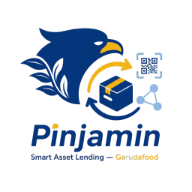
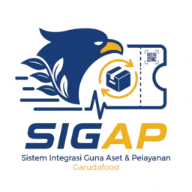
feat(pinjamin): rebrand aplikasi menjadi SIGAP
Identitas produk berganti dari "Pinjamin — Smart Asset Lending" menjadi
"SIGAP — Sistem Integrasi Guna Aset & Pelayanan".

Sekaligus memperbaiki kerusakan yang muncul saat logo diganti: berkas lama
logo-pinjamin.png dihapus dan diganti pinjamin-logo.png (urutan kata
tertukar), sementara 4 rujukan di kode masih menunjuk nama lama — logo di
landing, login, dan sidebar akan 404. Berkasnya kini bernama sigap-logo.png
dan seluruh rujukan disesuaikan.

Yang diganti (semua yang dibaca manusia):
- Judul metadata, deskripsi, dan site.webmanifest
- Merek di sidebar, breadcrumb, header landing, footer landing & login
- Kop dokumen PDF ekspor dan footer "SIGAP v1.1"
- Badge hero: tagline lama "Smart Asset Lending & Helpdesk" ikut diganti
- Nilai string ID/EN di lib/messages.ts, komentar kode, dan teks tiket contoh
- README app & Supabase

Label pengalih mode diubah dari "Pinjamin | Ticketing" menjadi
"Aset | Ticketing" — memakai nama aplikasi sebagai nama salah satu modenya
justru membingungkan setelah rebrand.

Yang SENGAJA dibiarkan (semua yang dibaca mesin):
- Folder apps/pinjamin — Root Directory di dashboard Vercel menunjuk path ini
- Paket @pinjamin/web — dirujuk installCommand vercel.json, script pinjamin:*
  di root, dan filter turbo
- Cookie pinjamin_session, localStorage pinjamin_data_v3_gf, sessionStorage
  pinjamin_admin_username, event pinjamin:*, env PINJAMIN_DATA_DIR
- Prefix QR "PIN-" — aset yang QR-nya sudah tercetak akan jadi tidak
[…]

diff --git a/apps/pinjamin/app/page.tsx b/apps/pinjamin/app/page.tsx
@@ -164,7 +164,7 @@ export default function LandingPage() {
     return () => clearTimeout(t);
   }, [trackNumber, runTrack]);
 
-  const pinjaminFeatures = [
+  const sigapFeatures = [
     { icon: Package, label: "Manajemen Aset" },
     { icon: QrCode, label: "QR Scanner" },
     { icon: CalendarRange, label: "Peminjaman" },
@@ -211,8 +211,8 @@ export default function LandingPage() {
                 aria-hidden="true"
               />
               <Image
-                src="/logo-pinjamin.png"
-                alt="Pinjamin"
+                src="/sigap-logo.png"
+                alt="SIGAP"
                 width={40}
                 height={40}
                 priority
@@ -221,7 +221,7 @@ export default function LandingPage() {
             </div>
             <div>
               <div className="font-extrabold leading-none tracking-tight">
-                Pinjamin
+                SIGAP
               </div>
               <div className="text-[10px] text-[#fbd38d] font-medium tracking-widest uppercase whitespace-nowrap">
                 Garuda Food
@@ -252,7 +252,7 @@ export default function LandingPage() {
         <section className="pt-12 sm:pt-16 pb-10 text-center max-w-3xl mx-auto">
           <div className="inline-flex items-center gap-2 rounded-full border border-amber-400/30 bg-amber-400/10 px-3 py-1 text-xs font-semibold text-amber-200">
             <Sparkles className="h-3.5 w-3.5" />
-            Smart Asset Lending &amp; Helpdesk
+            Sistem Integrasi Guna Aset &amp; Pelayanan
           </div>
           <h1 className="mt-5 text-3xl sm:text-4xl lg:text-5xl font-extrabold tracking-tight leading-[1.1]">
             Butuh bantuan soal aset?
@@ -317,17 +317,17 @@ export default function LandingPage() {
             Di mobile form didahulukan (order-first) karena aksi utamanya. */}
         <section className="pb-14 flex flex-col lg:grid lg:grid-cols-2 gap-6 items-start">
           <div className="space-y-6 w-full order-last lg:order-none lg:sticky lg:top-6">
-            {/* Satu platform: Pinjamin + Ticketing */}
+            {/* Satu platform: manajemen aset + Ticketing */}
             <div className="rounded-2xl border border-[#243a5e] bg-[#12263f]/50 p-5 space-y-3">
               <div className="text-xs font-semibold tracking-widest uppercase text-slate-400">
-                Satu platform — Pinjamin
+                Satu platform — SIGAP
               </div>
               <p className="text-xs text-slate-400 leading-relaxed">
                 Tiket Anda masuk ke sistem yang sama dengan katalog aset dan
                 peminjaman, jadi tim bisa langsung menautkannya ke aset terkait.
               </p>
               <div className="flex flex-wrap gap-2">
-                {pinjaminFeatures.map((f) => (
+                {sigapFeatures.map((f) => (
                   <span
                     key={f.label}
                     className="inline-flex items-center gap-2 rounded-xl border border-[#243a5e] bg-[#0f1d33] px-3 py-2 text-xs font-medium text-slate-200"
@@ -601,7 +601,7 @@ export default function LandingPage() {
           >
             ©
           </Link>{" "}
-          2026 Pinjamin — Smart Asset Lending &amp; Helpdesk • Garuda Food
+          2026 SIGAP — Sistem Integrasi Guna Aset &amp; Pelayanan • Garudafood
         </div>
       </footer>
     </div>

diff --git a/apps/pinjamin/components/layout/sidebar.tsx b/apps/pinjamin/components/layout/sidebar.tsx
@@ -37,7 +37,7 @@ interface AdminProfileInfo {
 }
 
 /**
- * Mode admin: "assets" (Pinjamin) atau "tickets" (Helpdesk).
+ * Mode admin: "assets" (manajemen aset) atau "tickets" (Helpdesk).
  * Disimpan di localStorage + disiarkan lewat event `pinjamin:mode` supaya
  * TopBar & Sidebar selalu sinkron. Rute /tickets otomatis memaksa mode
  * tickets agar tampilan konsisten walau masuk lewat URL langsung.
@@ -181,8 +181,8 @@ export function Sidebar({ onNavigate }: { onNavigate?: () => void }) {
             className="absolute -inset-2.5 rounded-full bg-amber-300/25 blur-[12px]"
           />
           <Image
-            src="/logo-pinjamin.png"
-            alt="Pinjamin"
+            src="/sigap-logo.png"
+            alt="SIGAP"
             width={44}
             height={44}
             priority
@@ -191,7 +191,7 @@ export function Sidebar({ onNavigate }: { onNavigate?: () => void }) {
         </div>
         <div>
           <div className="font-extrabold text-white leading-none tracking-tight">
-            Pinjamin
+            SIGAP
           </div>
           <div className="text-[11px] text-[#fbd38d] font-medium tracking-widest uppercase">
             Garuda Food
@@ -431,15 +431,15 @@ export function TopBar({ onMenu }: { onMenu: () => void }) {
             className="absolute h-10 w-10 rounded-full bg-amber-300/25 blur-[10px]"
           />
           <Image
-            src="/logo-pinjamin.png"
-            alt="Pinjamin"
+            src="/sigap-logo.png"
+            alt="SIGAP"
             width={28}
             height={28}
             className="relative h-7 w-auto object-contain"
           />
         </span>
         <span className="font-extrabold tracking-tight text-white truncate">
-          Pinjamin
+          SIGAP
         </span>
         {/* Badge disembunyikan di layar <640px: bersama switcher mode dan
             avatar, header jadi pecah dua baris di ponsel 375px. */}
@@ -448,7 +448,7 @@ export function TopBar({ onMenu }: { onMenu: () => void }) {
         </span>
       </Link>
       <div className="hidden lg:flex items-center gap-2 text-sm">
-        <span className="text-[#CBA12C] font-bold tracking-wide">Pinjamin</span>
+        <span className="text-[#CBA12C] font-bold tracking-wide">SIGAP</span>
         <span className="text-white/20">/</span>
         <span className="text-white/60 font-medium">Garuda Food</span>
         <span className="ml-3 hidden xl:inline-flex items-center gap-2 text-xs text-white/40">
@@ -457,7 +457,7 @@ export function TopBar({ onMenu }: { onMenu: () => void }) {
         </span>
       </div>
       <div className="ml-auto flex shrink-0 items-center gap-1.5 sm:gap-2">
-        {/* Switcher Mode Admin: Pinjamin (aset) vs Ticketing (helpdesk) */}
+        {/* Switcher Mode Admin: Aset vs Ticketing (helpdesk) */}
         <div className="flex items-center rounded-xl border border-[#243a5e] bg-[#142a4a] p-0.5">
           <button
             type="button"
@@ -471,7 +471,7 @@ export function TopBar({ onMenu }: { onMenu: () => void }) {
             )}
           >
             <Package className="h-4 w-4" strokeWidth={1.75} />
-            <span className="hidden md:inline">Pinjamin</span>
+            <span className="hidden md:inline">Aset</span>
           </button>
           <button
             type="button"

diff --git a/apps/pinjamin/lib/messages.ts b/apps/pinjamin/lib/messages.ts
@@ -44,7 +44,7 @@ export const messages = {
     "Scan an asset QR for quick check-out/return without opening the menu.",
   ],
   systemActive: ["Sistem aktif", "System online"],
-  modeAdminAssets: ["Mode Admin Pinjamin", "Pinjamin Admin Mode"],
+  modeAdminAssets: ["Mode Admin Aset", "Asset Admin Mode"],
   modeAdminTickets: ["Mode Admin Ticketing", "Ticketing Admin Mode"],
 
   // ---------- Umum ----------
@@ -142,7 +142,7 @@ export const messages = {
 
   // ---------- Login ----------
   welcome: ["Selamat Datang", "Welcome"],
-  loginToPinjamin: ["Masuk ke Pinjamin", "Sign in to Pinjamin"],
+  loginToPinjamin: ["Masuk ke SIGAP", "Sign in to SIGAP"],
   username: ["Username", "Username"],
   password: ["Password", "Password"],
   login: ["Masuk", "Sign In"],
@@ -332,10 +332,7 @@ export const messages = {
   unlinkAsset: ["Lepas tautan aset", "Unlink asset"],
   unlink: ["Lepas", "Unlink"],
   linkAsset: ["Tautkan", "Link"],
-  noAssetsInPinjamin: [
-    "Belum ada aset di Pinjamin",
-    "No assets in Pinjamin yet",
-  ],
+  noAssetsInPinjamin: ["Belum ada aset di SIGAP", "No assets in SIGAP yet"],
   pickReportedAsset: [
     "— Pilih aset yang dilaporkan —",
     "— Choose the reported asset —",
@@ -895,8 +892,8 @@ export const messages = {
 
   // ---------- Laporan ----------
   reportsSub: [
-    "Laporan & ekspor — tema Pinjamin Garuda Food",
-    "Reports & exports — Pinjamin Garuda Food theme",
+    "Laporan & ekspor — SIGAP Garudafood",
+    "Reports & exports — SIGAP Garudafood",
   ],
   reportHistoryTitle: ["Riwayat Peminjaman", "Booking History"],
   reportHistorySub: [
@@ -932,8 +929,8 @@ export const messages = {
   pdfTotalAssets: ["Total Aset: {count}", "Total assets: {count}"],
   pdfCategoryLine: ["{name}: {count} aset", "{name}: {count} assets"],
   pdfPrintedAt: [
-    "Dicetak: {date} • Pinjamin v1.1",
-    "Printed: {date} • Pinjamin v1.1",
+    "Dicetak: {date} • SIGAP v1.1",
+    "Printed: {date} • SIGAP v1.1",
   ],
   colBooking: ["Booking", "Booking"],
   colFrom: ["Pinjam", "From"],

diff --git a/apps/pinjamin/lib/ticket-seed.ts b/apps/pinjamin/lib/ticket-seed.ts
@@ -10,7 +10,7 @@ function iso(days: number, hour = 10) {
 /**
  * Tiket helpdesk contoh — karyawan & isu khas operasional Garudafood.
  * Beberapa taut ke aset demo (gf-ast-*) supaya panel Ticketing langsung
- * nyambung ke modul Pinjamin.
+ * nyambung ke modul aset SIGAP.
  */
 export function buildDemoTickets(): Ticket[] {
   return [
@@ -55,7 +55,7 @@ export function buildDemoTickets(): Ticket[] {
       category: "Aset & IT",
       subject: "Packing machine Line 1 error sealer temperature",
       message:
-        "VFFS Gery Saluut Line 1 Pati alarm suhu sealer. Produksi tertahan sejak shift 1. Engineering sudah lihat, mohon tiket resmi + status aset di Pinjamin.",
+        "VFFS Gery Saluut Line 1 Pati alarm suhu sealer. Produksi tertahan sejak shift 1. Engineering sudah lihat, mohon tiket resmi + status aset di SIGAP.",
       status: "IN_PROGRESS",
       adminNote:
         "Aset PIN-PCK011 sudah MAINTENANCE. Teknisi vendor datang sore.",

diff --git a/apps/pinjamin/app/layout.tsx b/apps/pinjamin/app/layout.tsx
@@ -5,9 +5,9 @@ import { I18nProvider } from "@/lib/i18n";
 import { AuthProvider } from "@/lib/auth-client";
 
 export const metadata: Metadata = {
-  title: "Pinjamin — Smart Asset Lending | Garuda Food",
+  title: "SIGAP — Sistem Integrasi Guna Aset & Pelayanan | Garudafood",
   description:
-    "Sistem peminjaman aset Garuda Food — kelola aset, kit, booking, audit, dan laporan dengan QR. Single dark theme, bilingual ID/EN.",
+    "SIGAP — Sistem Integrasi Guna Aset & Pelayanan Garudafood. Kelola aset, kit, booking, audit, laporan, dan helpdesk dengan QR Code.",
   manifest: "/site.webmanifest",
   icons: {
     // ?v=3 → cache-buster: Safari menyimpan cache favicon sangat agresif;

diff --git a/apps/pinjamin/app/login/page.tsx b/apps/pinjamin/app/login/page.tsx
@@ -160,8 +160,8 @@ function LoginForm() {
                 className="absolute h-20 w-20 rounded-full bg-amber-300/25 blur-[14px]"
               />
               <Image
-                src="/logo-pinjamin.png"
-                alt="Pinjamin"
+                src="/sigap-logo.png"
+                alt="SIGAP"
                 width={56}
                 height={56}
                 priority
@@ -278,7 +278,7 @@ function LoginForm() {
           </form>
 
           <div className="mt-6 text-center text-xs text-slate-400 dark:text-slate-500">
-            © 2026 Garuda Food • Pinjamin
+            © 2026 Garudafood • SIGAP
           </div>
         </div>
       </div>

diff --git a/apps/pinjamin/lib/tickets.ts b/apps/pinjamin/lib/tickets.ts
@@ -34,7 +34,7 @@ export interface Ticket {
   /** Catatan internal admin — TIDAK pernah dikirim ke endpoint publik. */
   adminNote: string;
   /**
-   * Tautan opsional ke aset Pinjamin (Asset.id di store client). Disimpan
+   * Tautan opsional ke aset SIGAP (Asset.id di store client). Disimpan
    * sebagai id mentah; keberadaan aset divalidasi di sisi client (server
    * tiket tidak mengenal store aset). null/undefined = tidak tertaut.
    */

diff --git a/apps/pinjamin/app/api/store/route.ts b/apps/pinjamin/app/api/store/route.ts
@@ -4,7 +4,7 @@ import path from "node:path";
 import { requireAuth, unauthorized } from "@/lib/auth";
 
 /**
- * Shared server-side store (lintas-browser) untuk data Pinjamin.
+ * Shared server-side store (lintas-browser) untuk data SIGAP.
  *
  * Kenapa ini ada: sebelumnya AppData disimpan di localStorage tiap browser,
  * sehingga data yang dibuat di Safari TIDAK terlihat di Chrome (dan

diff --git a/apps/pinjamin/app/reports/page.tsx b/apps/pinjamin/app/reports/page.tsx
@@ -107,7 +107,7 @@ export default function ReportsPage() {
     doc.rect(0, 0, 210, 22, "F");
     doc.setTextColor(255, 255, 255);
     doc.setFontSize(14);
-    doc.text("Pinjamin — Garuda Food", 10, 10);
+    doc.text("SIGAP — Garudafood", 10, 10);
     doc.setFontSize(10);
     doc.text(t("pdfReportTitle"), 10, 16);
     doc.setTextColor(0, 0, 0);

diff --git a/apps/pinjamin/app/tickets/page.tsx b/apps/pinjamin/app/tickets/page.tsx
@@ -49,7 +49,7 @@ interface Ticket {
   message: string;
   status: TicketStatus;
   adminNote: string;
-  /** Tautan opsional ke aset Pinjamin (lihat lib/tickets.ts). */
+  /** Tautan opsional ke aset SIGAP (lihat lib/tickets.ts). */
   assetId?: string | null;
   createdAt: string;
   updatedAt: string;

diff --git a/apps/pinjamin/lib/auth.ts b/apps/pinjamin/lib/auth.ts
@@ -1,5 +1,5 @@
 /**
- * Auth admin Pinjamin (PRD §6.1 / §15).
+ * Auth admin SIGAP (PRD §6.1 / §15).
  *
  * - Login username + password (bukan email).
  * - Password bcrypt, tidak pernah plaintext.

diff --git a/apps/pinjamin/supabase/README.md b/apps/pinjamin/supabase/README.md
@@ -1,4 +1,4 @@
-# Supabase untuk Pinjamin
+# Supabase untuk SIGAP
 
 > **Penting (security):** sejak migration `04-enable-rls.sql`, RLS aktif di
 > semua tabel dan browser tidak lagi mengakses tabel data langsung lewat
@@ -18,7 +18,7 @@
 > `app/api/data/**` sudah ter-deploy (kalau RLS dinyalakan duluan tanpa route
 > ini, app kehilangan akses).
 
-Pinjamin support **2 mode** agar tetap jalan tanpa setup:
+SIGAP support **2 mode** agar tetap jalan tanpa setup:
 
 - **Offline (dev/VPS):** tanpa env, data di `data/*.json` + `localStorage`,
   upload disimpan sebagai `base64`. **Tidak boleh dipakai di Vercel** —
@@ -84,7 +84,7 @@ cp ../../.env.example .env.local
 ## 3. Skema database
 
 Skema lengkap ada di file SQL folder ini — dijalankan manual lewat SQL Editor
-Supabase (tidak ada migration runner untuk Pinjamin; `pnpm db:*` di root
+Supabase (tidak ada migration runner untuk SIGAP; `pnpm db:*` di root
 milik app `@shelf/webapp`, bukan app ini).
 
 Begitu `SUPABASE_SERVICE_ROLE` di-set, app otomatis beralih ke Postgres:
